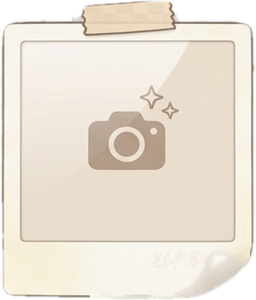
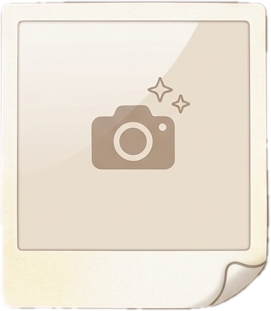
Checkpoint: ポラロイドフレーム画像を新しい3枚（ユーザー提供）に入れ替えました。各フレームのピクセル分析に基づいて写真表示エリアを正確に計算し、枠線にきっちり合わせるよう調整しました（polaroid1/3: top=7.5%, left=7.5%, width=85%, height=73%、polaroid2: top=13%, left=7.5%, width=85%, height=68%）。polaroid-photo.tsxとdraggable-photo-row.tsxの両コンポーネントを統一更新。

diff --git a/components/polaroid-photo.tsx b/components/polaroid-photo.tsx
@@ -14,28 +14,38 @@ interface PolaroidPhotoProps {
   size?: number; // overall size of the polaroid frame
 }
 
+// Frame-specific photo area percentages based on pixel analysis
+// polaroid1 (271x311): border at top=20, bottom=250, left=17, right=249
+// polaroid2 (270x324): border at top=38, bottom=263, left=18, right=249
+// polaroid3 same as polaroid1
+const FRAME_CONFIGS = [
+  { aspectRatio: 311/271, topPct: 0.075, leftPct: 0.075, widthPct: 0.85, heightPct: 0.73 },  // polaroid1
+  { aspectRatio: 324/270, topPct: 0.13, leftPct: 0.075, widthPct: 0.85, heightPct: 0.68 },   // polaroid2
+  { aspectRatio: 311/271, topPct: 0.075, leftPct: 0.075, widthPct: 0.85, heightPct: 0.73 },  // polaroid3
+];
+
 export function PolaroidPhoto({ index, photoUri, onPress, size = 105 }: PolaroidPhotoProps) {
-  const frameSource = POLAROID_FRAMES[index % 3];
-  // Photo area within polaroid frame (256x300 frame)
-  // Photo area: left=8%, top=10%, width=84%, height=72% of frame height
-  const frameHeight = size * 1.15;
-  const photoWidth = size * 0.84;
-  const photoHeight = frameHeight * 0.72;
-  const photoLeft = size * 0.08;
-  const photoTop = frameHeight * 0.10;
+  const frameIdx = index % 3;
+  const frameSource = POLAROID_FRAMES[frameIdx];
+  const config = FRAME_CONFIGS[frameIdx];
+  const frameHeight = size * config.aspectRatio;
+  const photoWidth = size * config.widthPct;
+  const photoHeight = frameHeight * config.heightPct;
+  const photoLeft = size * config.leftPct;
+  const photoTop = frameHeight * config.topPct;
 
   return (
     <Pressable
       onPress={onPress}
       style={({ pressed }) => [
-        { width: size, height: size * 1.15 },
+        { width: size, height: frameHeight },
         pressed && { opacity: 0.7 },
       ]}
     >
       {/* Frame image as background */}
       <Image
         source={frameSource}
-        style={[styles.frameImage, { width: size, height: size * 1.15 }]}
+        style={[styles.frameImage, { width: size, height: frameHeight }]}
         resizeMode="contain"
       />
       {/* Photo overlay inside the frame */}

diff --git a/components/draggable-photo-row.tsx b/components/draggable-photo-row.tsx
@@ -50,14 +50,20 @@ function DraggablePhotoItem({
   const translateY = useSharedValue(0);
   const scale = useSharedValue(1);
   const zIndex = useSharedValue(0);
-  const frameSource = POLAROID_FRAMES[index % 3];
-  // Photo area within polaroid frame (256x300 frame)
-  // Photo area: left=8%, top=10%, width=84%, height=72% of frame height
-  const frameHeight = size * 1.15;
-  const photoWidth = size * 0.84;
-  const photoHeight = frameHeight * 0.72;
-  const photoLeft = size * 0.08;
-  const photoTop = frameHeight * 0.10;
+  const frameIdx = index % 3;
+  const frameSource = POLAROID_FRAMES[frameIdx];
+  // Frame-specific photo area percentages based on pixel analysis
+  const FRAME_CONFIGS = [
+    { aspectRatio: 311/271, topPct: 0.075, leftPct: 0.075, widthPct: 0.85, heightPct: 0.73 },
+    { aspectRatio: 324/270, topPct: 0.13, leftPct: 0.075, widthPct: 0.85, heightPct: 0.68 },
+    { aspectRatio: 311/271, topPct: 0.075, leftPct: 0.075, widthPct: 0.85, heightPct: 0.73 },
+  ];
+  const config = FRAME_CONFIGS[frameIdx];
+  const frameHeight = size * config.aspectRatio;
+  const photoWidth = size * config.widthPct;
+  const photoHeight = frameHeight * config.heightPct;
+  const photoLeft = size * config.leftPct;
+  const photoTop = frameHeight * config.topPct;
 
   const panGesture = Gesture.Pan()
     .activateAfterLongPress(300)
@@ -118,14 +124,14 @@ function DraggablePhotoItem({
     <GestureDetector gesture={composedGesture}>
       <Animated.View
         style={[
-          { width: size, height: size * 1.15 },
+          { width: size, height: frameHeight },
           animatedStyle,
         ]}
       >
         {/* Frame image as background */}
         <Image
           source={frameSource}
-          style={[styles.frameImage, { width: size, height: size * 1.15 }]}
+          style={[styles.frameImage, { width: size, height: frameHeight }]}
           resizeMode="contain"
         />
         {/* Photo overlay inside the frame */}

diff --git a/todo.md b/todo.md
@@ -134,3 +134,5 @@
 - [x] ポラロイド画像の写真を枚線にきっちり合わせる（下側余白除去）
 - [x] ポラロイド下の数字（日付表示）を削除する
 - [x] 日記詳細画面で写真タップ時にフルスクリーンプレビュー表示
+- [x] ポラロイド画像を新しい3枚に入れ替え
+- [x] 写真表示を枚線にきっちり合わせる調整